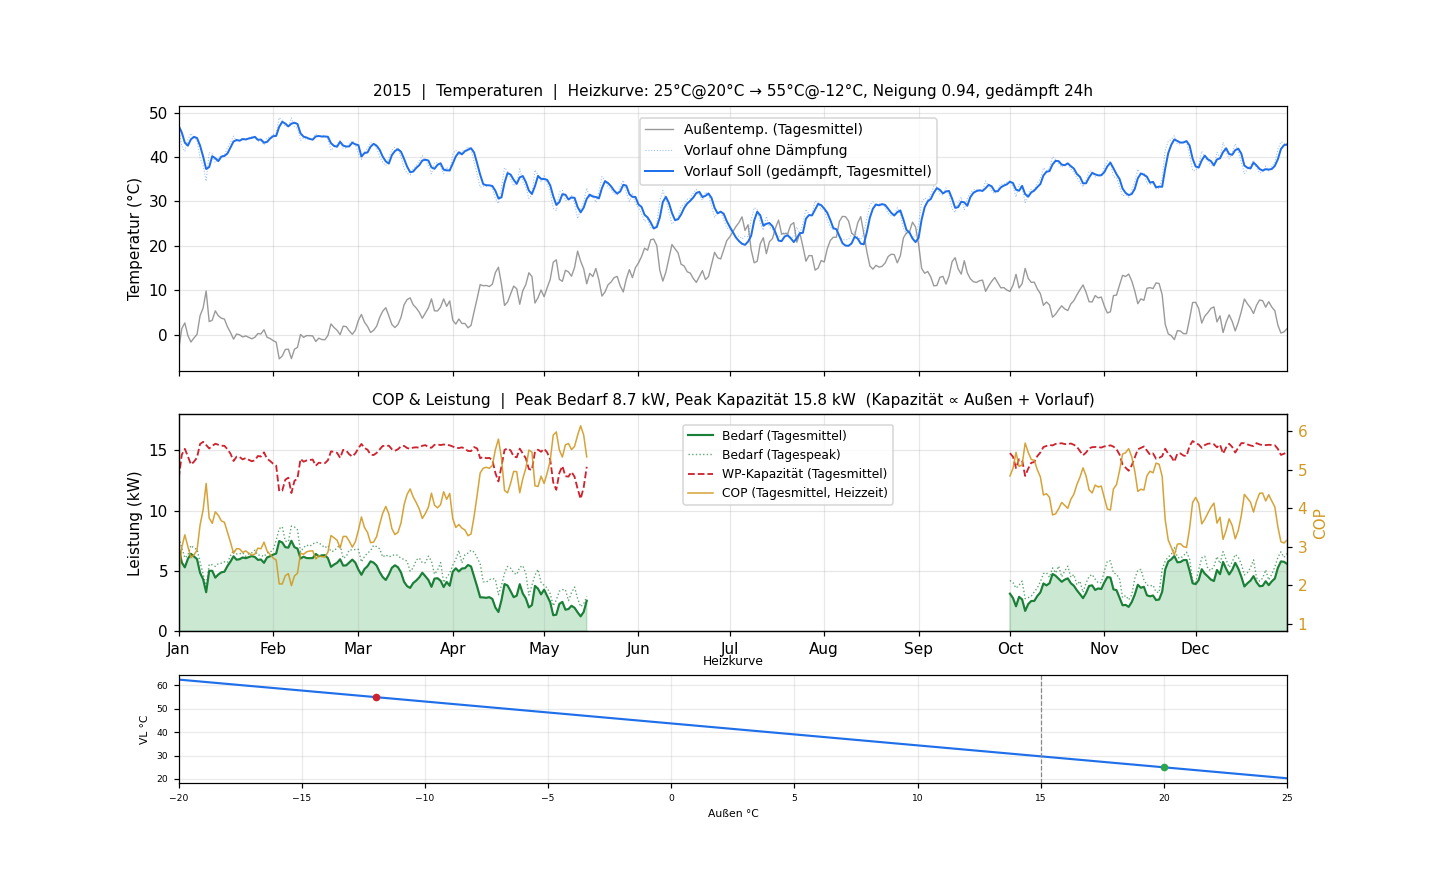
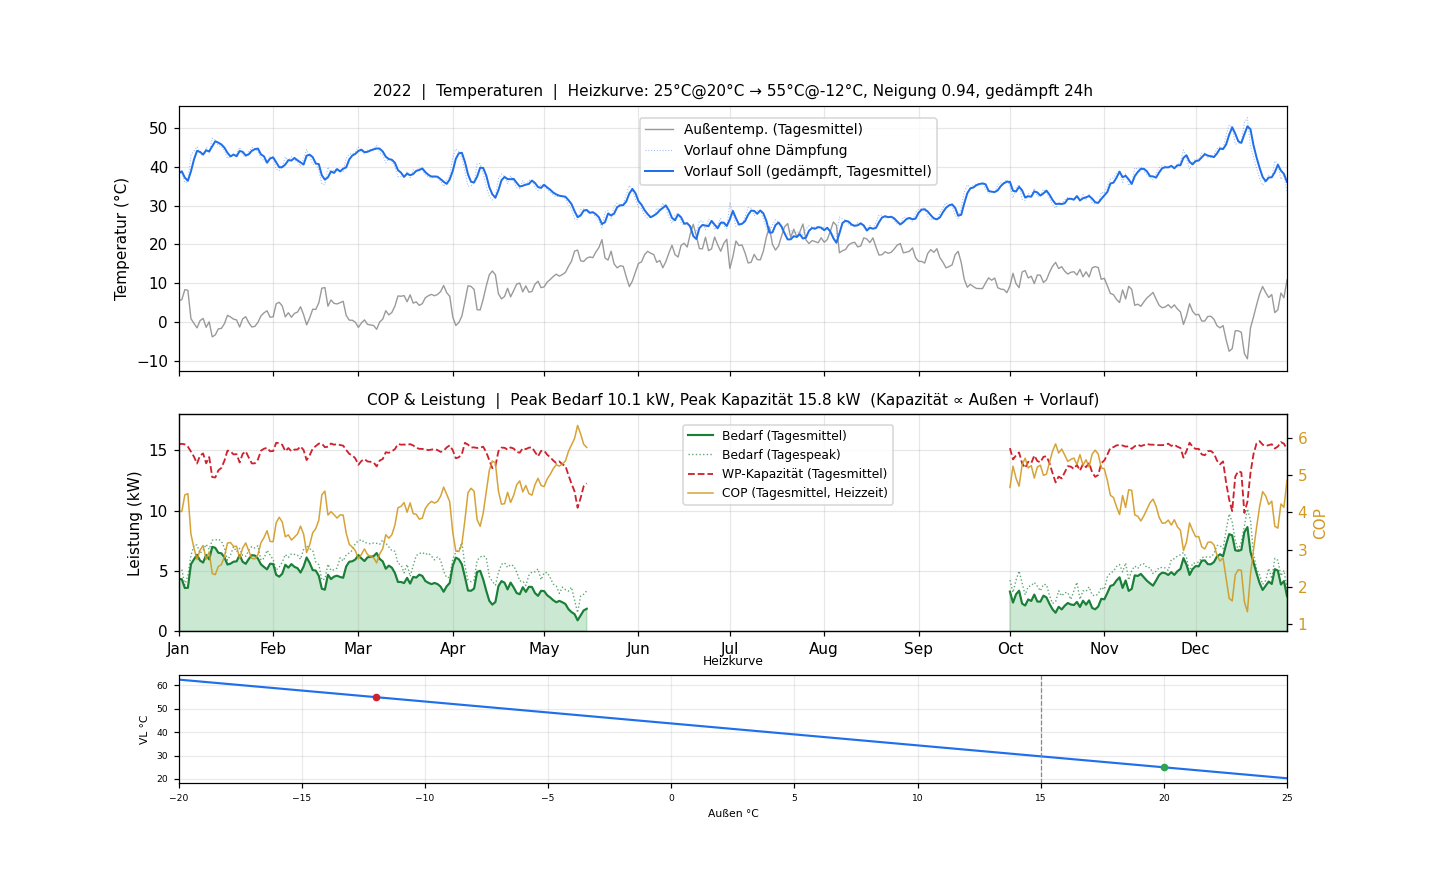
Enhance weather data fetching and error handling
- Updated fetch_calendar_year function to include retry logic for downloading weather data, improving robustness against transient errors.
- Introduced fetch_weather_years function to download and cache multiple years of weather data, allowing for continued operation despite individual failures.
- Adjusted configuration to use the year 2022 for weather data.
- Updated deployment workflow to use newer versions of actions and added a timeout for the deployment job.
- Modified stats.json to reflect the updated weather year and adjusted heating statistics based on new data.

diff --git a/weather.py b/weather.py
@@ -22,6 +22,7 @@ from __future__ import annotations
 import csv
 import io
 import json
+import time
 import urllib.error
 import urllib.parse
 import urllib.request
@@ -83,7 +84,8 @@ def weather_cache_path(latitude: float, longitude: float, year: int) -> Path:
     return SOURCE_DIR / f"weather_{latitude:.3f}_{longitude:.3f}_{year}.csv"
 
 
-def fetch_calendar_year(latitude: float, longitude: float, year: int) -> pd.DataFrame:
+def fetch_calendar_year(latitude: float, longitude: float, year: int,
+                        *, retries: int = 3) -> pd.DataFrame:
     """Download hourly 2 m temperature for one calendar year (UTC)."""
     params = urllib.parse.urlencode({
         "latitude": latitude,
@@ -94,15 +96,23 @@ def fetch_calendar_year(latitude: float, longitude: float, year: int) -> pd.Data
         "timezone": "UTC",
     })
     url = f"{OPEN_METEO_ARCHIVE}?{params}"
-    try:
-        with urllib.request.urlopen(url, timeout=120) as resp:
-            payload = json.load(resp)
-    except urllib.error.URLError as exc:
+    last_exc: Exception | None = None
+    for attempt in range(retries):
+        try:
+            with urllib.request.urlopen(url, timeout=120) as resp:
+                payload = json.load(resp)
+            break
+        except (urllib.error.URLError, TimeoutError, json.JSONDecodeError) as exc:
+            last_exc = exc
+            if attempt < retries - 1:
+                time.sleep(2 ** attempt)
+    else:
         cache = weather_cache_path(latitude, longitude, year)
         raise RuntimeError(
-            f"Could not download weather for {year} ({latitude}, {longitude}): {exc}\n"
+            f"Could not download weather for {year} ({latitude}, {longitude}): "
+            f"{last_exc}\n"
             f"If you are offline, place a cached CSV at {cache}"
-        ) from exc
+        ) from last_exc
 
     times = payload["hourly"]["time"]
     temps = payload["hourly"]["temperature_2m"]
@@ -134,6 +144,28 @@ def load_weather_cache(path: Path) -> pd.DataFrame:
     df["time"] = pd.to_datetime(raw["time"], utc=True)
     df["t_out"] = raw["t_out"].astype(float)
     return _normalize(df)
+
+
+def fetch_weather_years(latitude: float, longitude: float,
+                        years: list[int]) -> tuple[list[int], list[int]]:
+    """Download/cache a list of calendar years; continue past individual failures."""
+    ok: list[int] = []
+    failed: list[int] = []
+    for y in sorted(set(years)):
+        cache = weather_cache_path(latitude, longitude, y)
+        if cache.exists():
+            ok.append(y)
+            print(f"  {y} cached")
+            continue
+        try:
+            load_calendar_year(latitude, longitude, y, fetch=True)
+            ok.append(y)
+            print(f"  {y} ok")
+        except RuntimeError as exc:
+            failed.append(y)
+            print(f"  {y} FAILED: {exc}")
+        time.sleep(0.25)
+    return ok, failed
 
 
 def load_calendar_year(latitude: float, longitude: float, year: int,
@@ -468,16 +500,28 @@ if __name__ == "__main__":
     if len(sys.argv) > 1 and sys.argv[1] == "fetch_history":
         y0, y1 = settings["worst_case_start"], settings["worst_case_end"]
         lat, lon = settings["latitude"], settings["longitude"]
-        print(f"Fetching calendar years {y0}–{y1} …")
-        for y in range(y0, y1 + 1):
-            load_calendar_year(lat, lon, y)
-            print(f"  {y} ok")
+        years = list(range(y0, y1 + 1))
+        sim_year = settings["year"]
+        if sim_year != 0:
+            years.append(sim_year)
+        print(f"Fetching calendar years {y0}–{y1}"
+              f"{f' (+ sim year {sim_year})' if sim_year != 0 else ''} …")
+        ok, failed = fetch_weather_years(lat, lon, years)
         wc_path = worst_case_cache_path(lat, lon, y0, y1)
         sel_path = worst_case_selection_path(lat, lon, y0, y1)
         if wc_path.exists():
             wc_path.unlink()
         if sel_path.exists():
             sel_path.unlink()
+        print(f"Fetched {len(ok)} years; {len(failed)} failed.")
+        if sim_year != 0 and sim_year not in ok:
+            print(f"ERROR: configured sim year {sim_year} is not available.")
+            sys.exit(1)
+        if not ok:
+            print("ERROR: no weather years available.")
+            sys.exit(1)
+        if failed:
+            print("Warning: some years failed — worst-case may use partial data.")
         print("Cleared worst-case cache — re-run simulation to rebuild.")
         sys.exit(0)
 